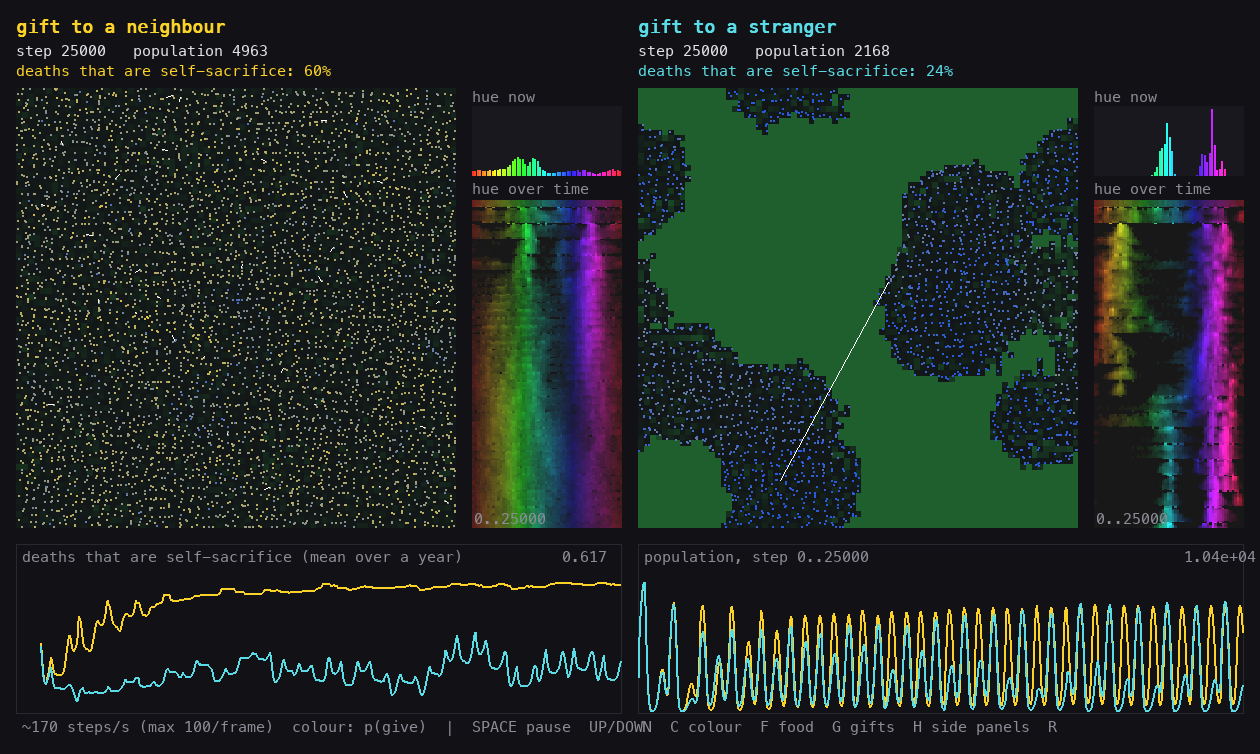
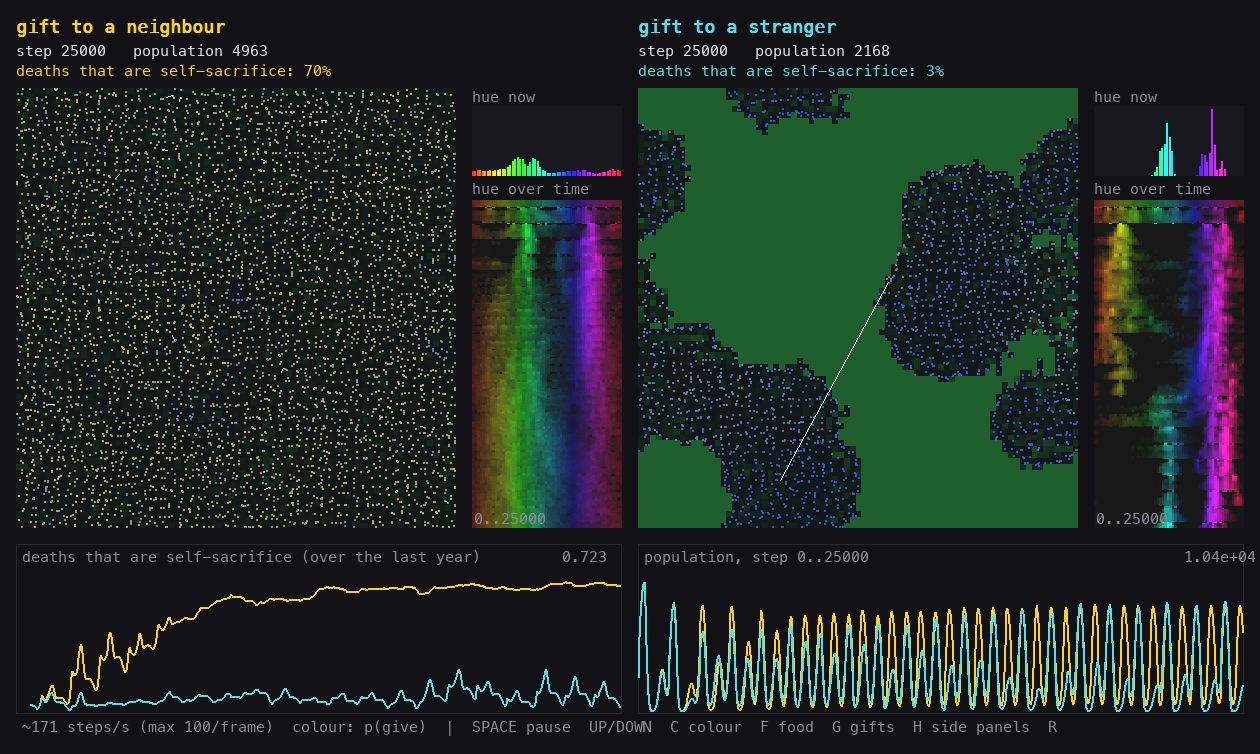
Viewer: yearly sacrifice share from summed counts, not a mean of per-step ratios
The mean of per-step ratios weighed a step with one death like a step with fifty,
which showed ~60% vs ~15-25% instead of the ~70% vs ~5-10% that the counts give.

diff --git a/kin_dots/viz/compare.py b/kin_dots/viz/compare.py
@@ -119,16 +119,18 @@ def _ramp(t):
     return (lo + (hi - lo) * t).astype(np.uint8)
 
 
-def _metric(w: World, metric: str) -> float:
-    """Cheap per-step metrics from the step ledger; anything else via the full census."""
+def _metric(w: World, metric: str) -> tuple[float, float]:
+    """This step's (numerator, denominator) of the metric. Ratios are summed over the window
+    before dividing, so a step with 1 death does not weigh as much as a step with 50 deaths.
+    Cheap ratios come from the step ledger; anything else is a census value with weight 1."""
     L = w.last
     if metric == "sacrifice_frac":
         died = L.get("deaths", 0) + L.get("killed", 0) + L.get("predated", 0) + L.get("sacrifices", 0)
-        return L.get("sacrifices", 0) / died if died else float("nan")
+        return float(L.get("sacrifices", 0)), float(died)
     if metric == "share_rate":
-        enc = L.get("encounters", 0)
-        return L.get("shares", 0) / enc if enc else float("nan")
-    return float(w.census().get(metric, float("nan")))
+        return float(L.get("shares", 0)), float(L.get("encounters", 0))
+    v = float(w.census().get(metric, float("nan")))
+    return (v, 1.0) if v == v else (0.0, 0.0)
 
 
 class Side:
@@ -143,17 +145,23 @@ class Side:
         self.hue_rows = []  # hue histogram every HUE_EVERY steps
         self.family = None  # last yearly family map
         self.family_step = 0
-        # plotted value = mean of the metric over the last full season (or 200 steps)
+        # plotted value = sum(numerators) / sum(denominators) over the last full season (or 200 steps)
         self.window = deque(maxlen=self.params.season_period or 200)
+        self.num = self.den = 0.0
 
     def step(self, metric: str):
         w = self.world
         if w.population == 0:
             return
         w.step()
-        v = _metric(w, metric)
-        if v == v:
-            self.window.append(v)
+        if len(self.window) == self.window.maxlen:
+            old_n, old_d = self.window[0]
+            self.num -= old_n
+            self.den -= old_d
+        n, d = _metric(w, metric)
+        self.window.append((n, d))
+        self.num += n
+        self.den += d
         if w.step_count % HUE_EVERY == 0:
             self.hue_rows.append(hue_hist(w))
         period = self.params.season_period or 600
@@ -162,7 +170,7 @@ class Side:
         if w.step_count % RECORD_EVERY == 0:
             self.pop_hist.append(w.population)
             if len(self.window) == self.window.maxlen:
-                self.hist.append(float(np.mean(self.window)))
+                self.hist.append(self.num / self.den if self.den > 0 else float("nan"))
 
 
 def draw_series(screen, font, x0, y0, w, h, series, title, x_len=None):
@@ -381,7 +389,7 @@ def main(argv=None) -> int:
         draw_series(screen, font, GAP, py0, half, PLOT_H,
                     [([float("nan")] * (len(s.pop_hist) - len(s.hist)) + s.hist, c)
                      for s, c in zip(sides, cols)],
-                    f"{METRIC_TITLES.get(args.metric, args.metric)} (mean over a year)", x_len=n_pop)
+                    f"{METRIC_TITLES.get(args.metric, args.metric)} (over the last year)", x_len=n_pop)
         draw_series(screen, font, 2 * GAP + half, py0, half, PLOT_H,
                     [(s.pop_hist, c) for s, c in zip(sides, cols)],
                     f"population, step 0..{steps}")

diff --git a/DEMO.md b/DEMO.md
@@ -81,7 +81,7 @@ Co robi skrypt:
 **Co jest na ekranie:**
 - **Kolor kropki** pokazuje, jak skłonna jest *teraz* do poświęcenia: niebieska prawie nigdy, żółta często (skala logarytmiczna). Lewy świat z czasem żółknie, prawy zostaje niebieski.
 - **Białe kreski** to dary z ostatniego kroku. W lewym świecie są krótkie, od dawcy do sąsiada. W prawym biegną przez całą mapę.
-- **Wykres na dole** pokazuje odsetek śmierci, które są poświęceniem, uśredniony po porze roku, za cały przebieg.
+- **Wykres na dole** pokazuje odsetek śmierci, które są poświęceniem, liczony z ostatniego roku (wszystkie poświęcenia z roku podzielone przez wszystkie śmierci z roku), za cały przebieg.
 - **Panele boczne** (klawisz `H` je chowa): przy każdym świecie histogram odcieni kolorów rodów w danej chwili i historia odcieni w czasie (czas w dół, trwałe rody to pionowe pasy).
 - **Tryb kolorowania „family map (yearly)”** (klawisz `C`): zamiast kropek mapa rodów, odświeżana raz na rok w szczycie lata.
 - **Klawisze:**
